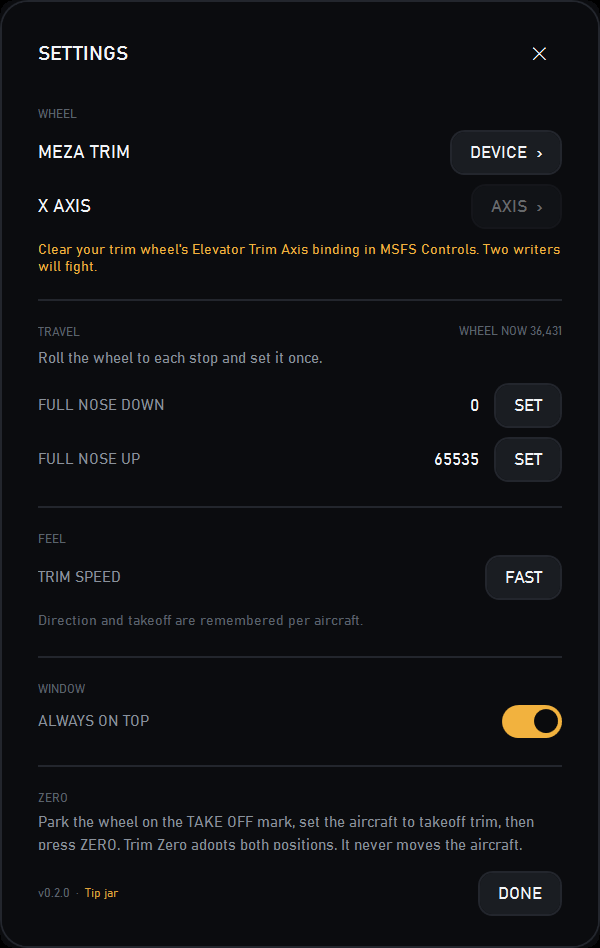
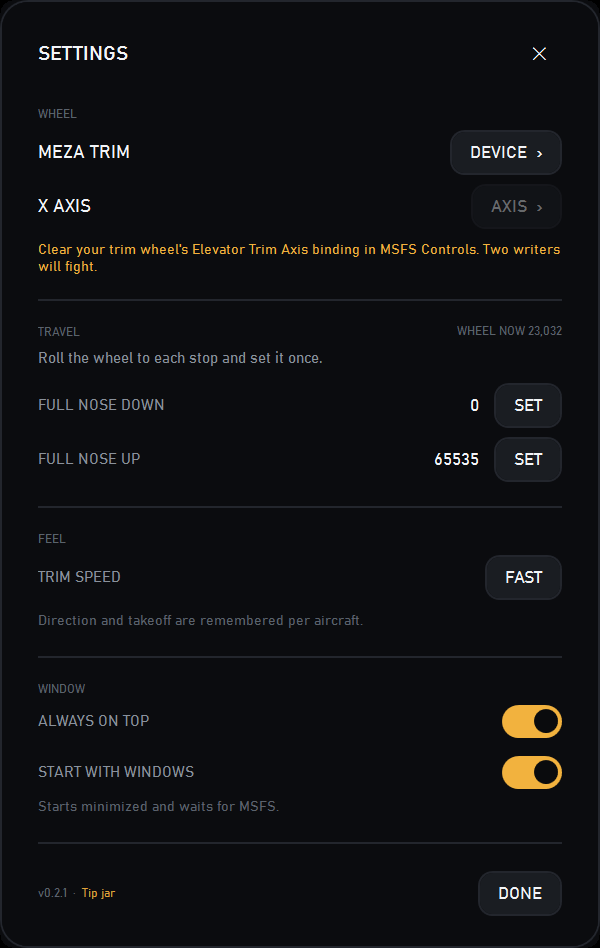
Prepare v0.2.1 release

Changed region(s): [[0.06, 0.7954, 0.96, 0.9483], [0.75, 0.3365, 0.93, 0.3671]]

diff --git a/README.md b/README.md
@@ -7,8 +7,8 @@ no telemetry, no updater.
 
 [Download the latest release](https://github.com/flyingsotong/trim-zero/releases/latest)  ·  [Source](https://github.com/flyingsotong/trim-zero)  ·  [Tip jar](https://magentadebrief.com/donate/) if it earns its place
 
-> v0.2.0, October 2026: any DirectInput analogue wheel, per-aircraft takeoff memory,
-> and the tip jar in settings.
+> v0.2.1, October 2026: start with Windows, a new-aircraft prompt fix, and a device guard
+> that cannot mistake a switch panel for the trim wheel.
 
 ![Trim Zero](docs/og.png)
 
@@ -35,6 +35,8 @@ arc, and a visible drift when the aircraft and the box disagree.
   aircraft; switching back restores them without moving the aircraft.
 - **Autopilot clutch.** The wheel is inert while the autopilot is flying; on disconnect
   the control reseeds but the datum is kept, so the mark does not silently lie.
+- **Start with Windows.** Optional; starts minimized and waits for MSFS. No service, no
+  admin, no tray.
 - One 400 x 632 window. No tray, no updater, no telemetry, no network.
 
 ## Screenshots
@@ -103,12 +105,14 @@ readable but a data write is ignored; POSITION is the control.
 
 ## Status
 
-v0.2.0, October 2026. Verified against MSFS 2024 1.9.20.0 and the C172SP for the sim
-read, aircraft title, ZERO, drift and position writes. The Meza is the tested wheel;
-other DirectInput analogue wheels are selected under DEVICE and AXIS, and reports are
-welcome. The per-aircraft datum is unit-tested; the live two-aircraft switch and the
-full hand-driven pass are still to be done. Other aircraft use the same neutral and
-limit variables; please report differences.
+v0.2.1, October 2026. Verified against MSFS 2024 1.9.20.0 and the C172SP for the sim
+read, aircraft title, ZERO, drift and position writes. The C172 hand-driven pass and
+the AP clutch passed with the native binding cleared. The A32 Vixxen path and the
+return to the C172 work; the per-aircraft datum and direction restore. The Meza is the
+tested wheel; other DirectInput analogue wheels are selected under DEVICE and AXIS, and
+reports are welcome. Start with Windows is implemented and the minimized/single-instance
+path is tested; the full logout/login cycle is still to be verified. Other aircraft use
+the same neutral and limit variables; please report differences.
 
 ## Privacy
 

diff --git a/CHANGELOG.md b/CHANGELOG.md
@@ -1,10 +1,12 @@
 # Changelog
 
-## 0.2.1 - unreleased
+## 0.2.1 - 19 October 2026
 
 - Device auto-detect now only picks a device whose name contains "Trim". A Meza
-  Switch Panel or a joystick no longer wins by containing "Meza". Changing the device
-  or axis clears the saved takeoff datum, because the mark is a count on that axis.
+  Switch Panel or a joystick no longer wins by containing "Meza". Devices with no axes
+  are rejected, so a button-only panel cannot be read as a constant 0. Changing the
+  device or axis clears the saved takeoff datum, because the mark is a count on that
+  axis.
 - A new aircraft no longer says WHEEL OFF DATUM before the first ZERO. Drift, the
   wheel figure and the ghost tick stay hidden until a takeoff datum exists; the status
   reads READY and the dial prompts PRESS ZERO AT THE MARK.
